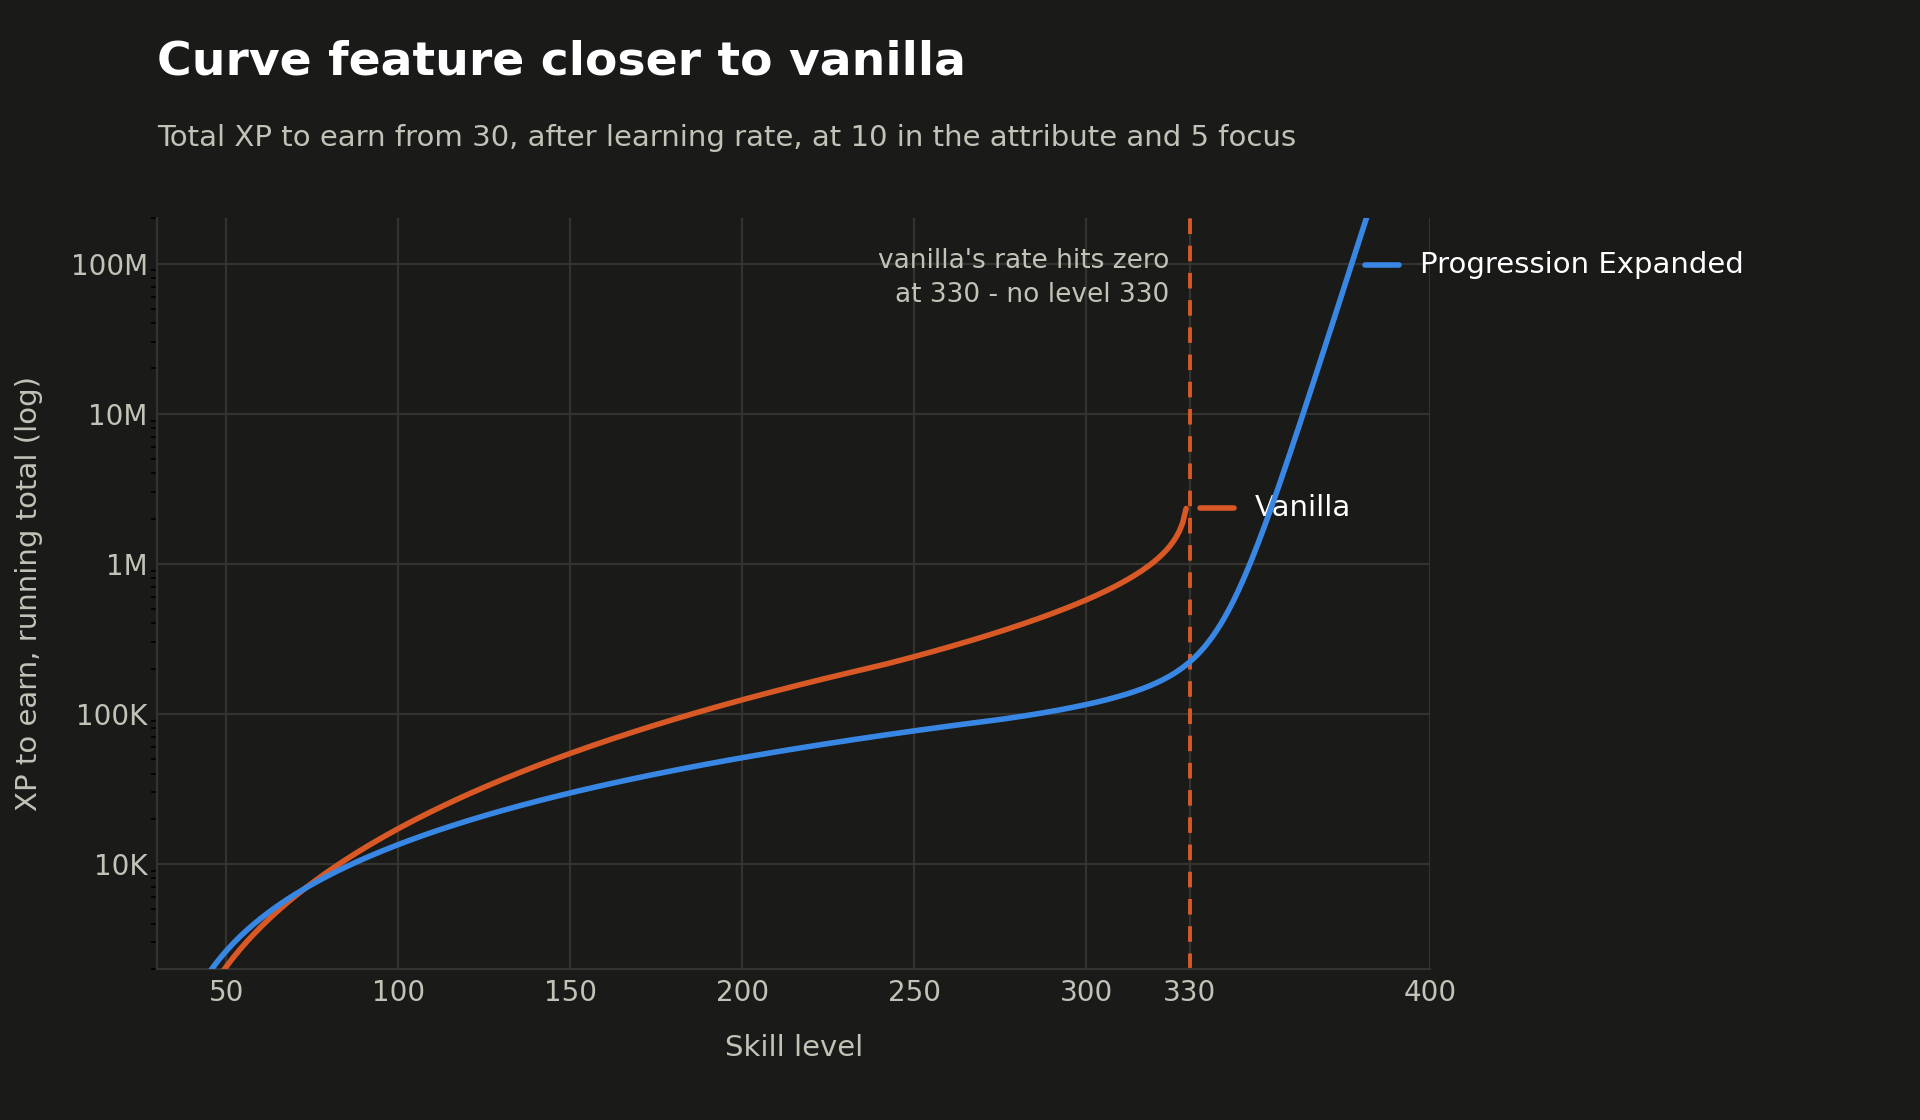
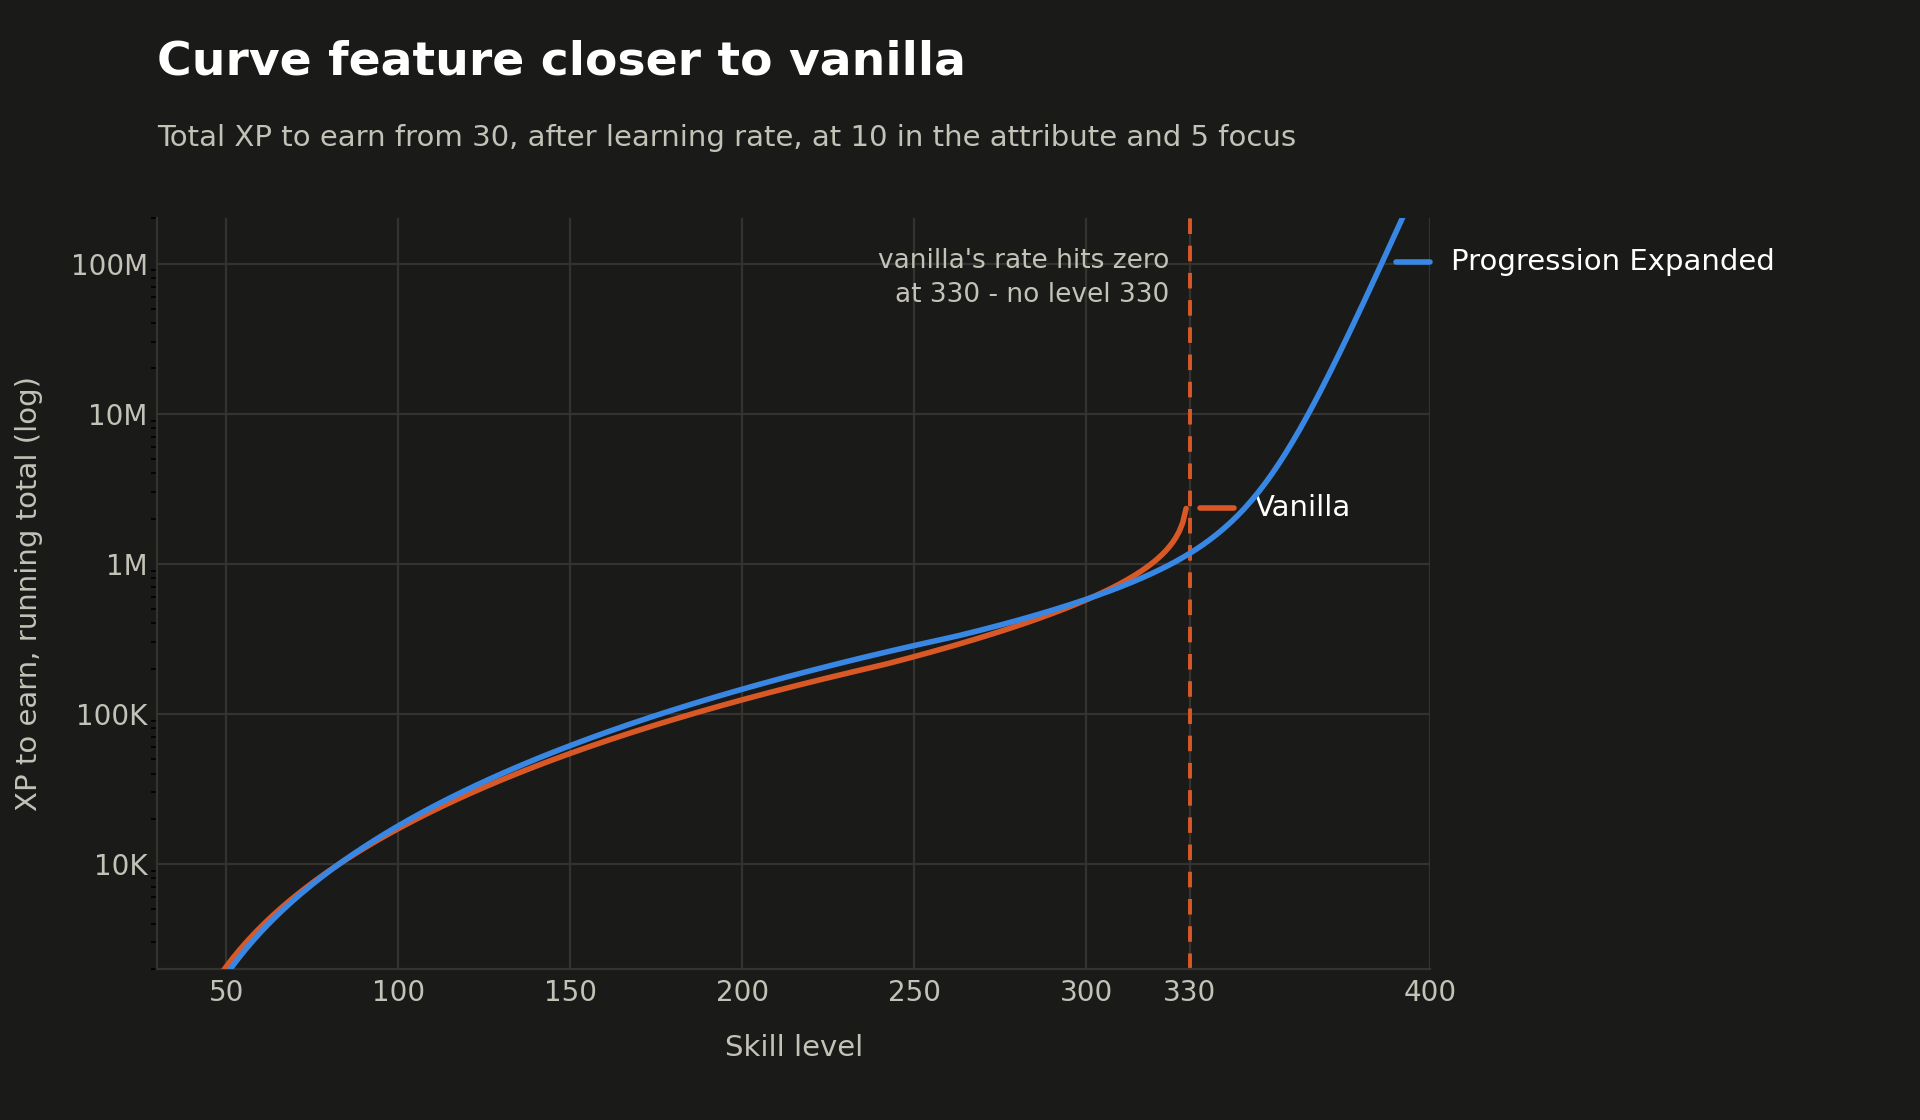
Retune the Closer to vanilla preset so it is actually close to vanilla
The old values were picked by eye and were not close at all: measured against
vanilla's own cumulative effort for a 10-attribute, 5-focus character, they ran
to 0.15x of it by skill 320 - nearly seven times cheaper - with a worst
deviation of 557%.

These four come from a grid search over the dials, scored on the worst log
deviation from vanilla across skill 40 to 320. Level 330 at 32, career length
1.25, early pace 5, harshness 3. That holds between 0.88x and 1.18x of vanilla
the whole way up, worst deviation 20%, and the two curves sit on top of each
other on the chart until vanilla's rate reaches zero and stops.

Which is what the preset is for: vanilla's pace, without vanilla's wall.

diff --git a/ProgressionExpanded/Settings.cs b/ProgressionExpanded/Settings.cs
@@ -51,10 +51,15 @@ namespace ProgressionExpanded
 
             yield return new Preset(Id, "vanillaish", "Closer to vanilla", () => new Settings
             {
-                Level330 = 20,
-                CareerLength = 1f,
-                EarlySpeed = 1f,
-                SummitHarshness = 5f,
+                // Not guessed: these four are the closest fit to vanilla's own effort curve that
+                // the dials can reach. Searched over the whole grid against vanilla's cumulative
+                // XP for a 10-attribute, 5-focus character, they hold within 20% of it from skill
+                // 40 to 320. The values that were here before drifted to a seventh of vanilla's
+                // cost by 320, which is not what the name promises.
+                Level330 = 32,
+                CareerLength = 1.25f,
+                EarlySpeed = 5f,
+                SummitHarshness = 3f,
                 MaxFocusPerSkill = 5,
                 EscalatingFocusCost = false,
                 FocusPointsPerLevel = 1,
